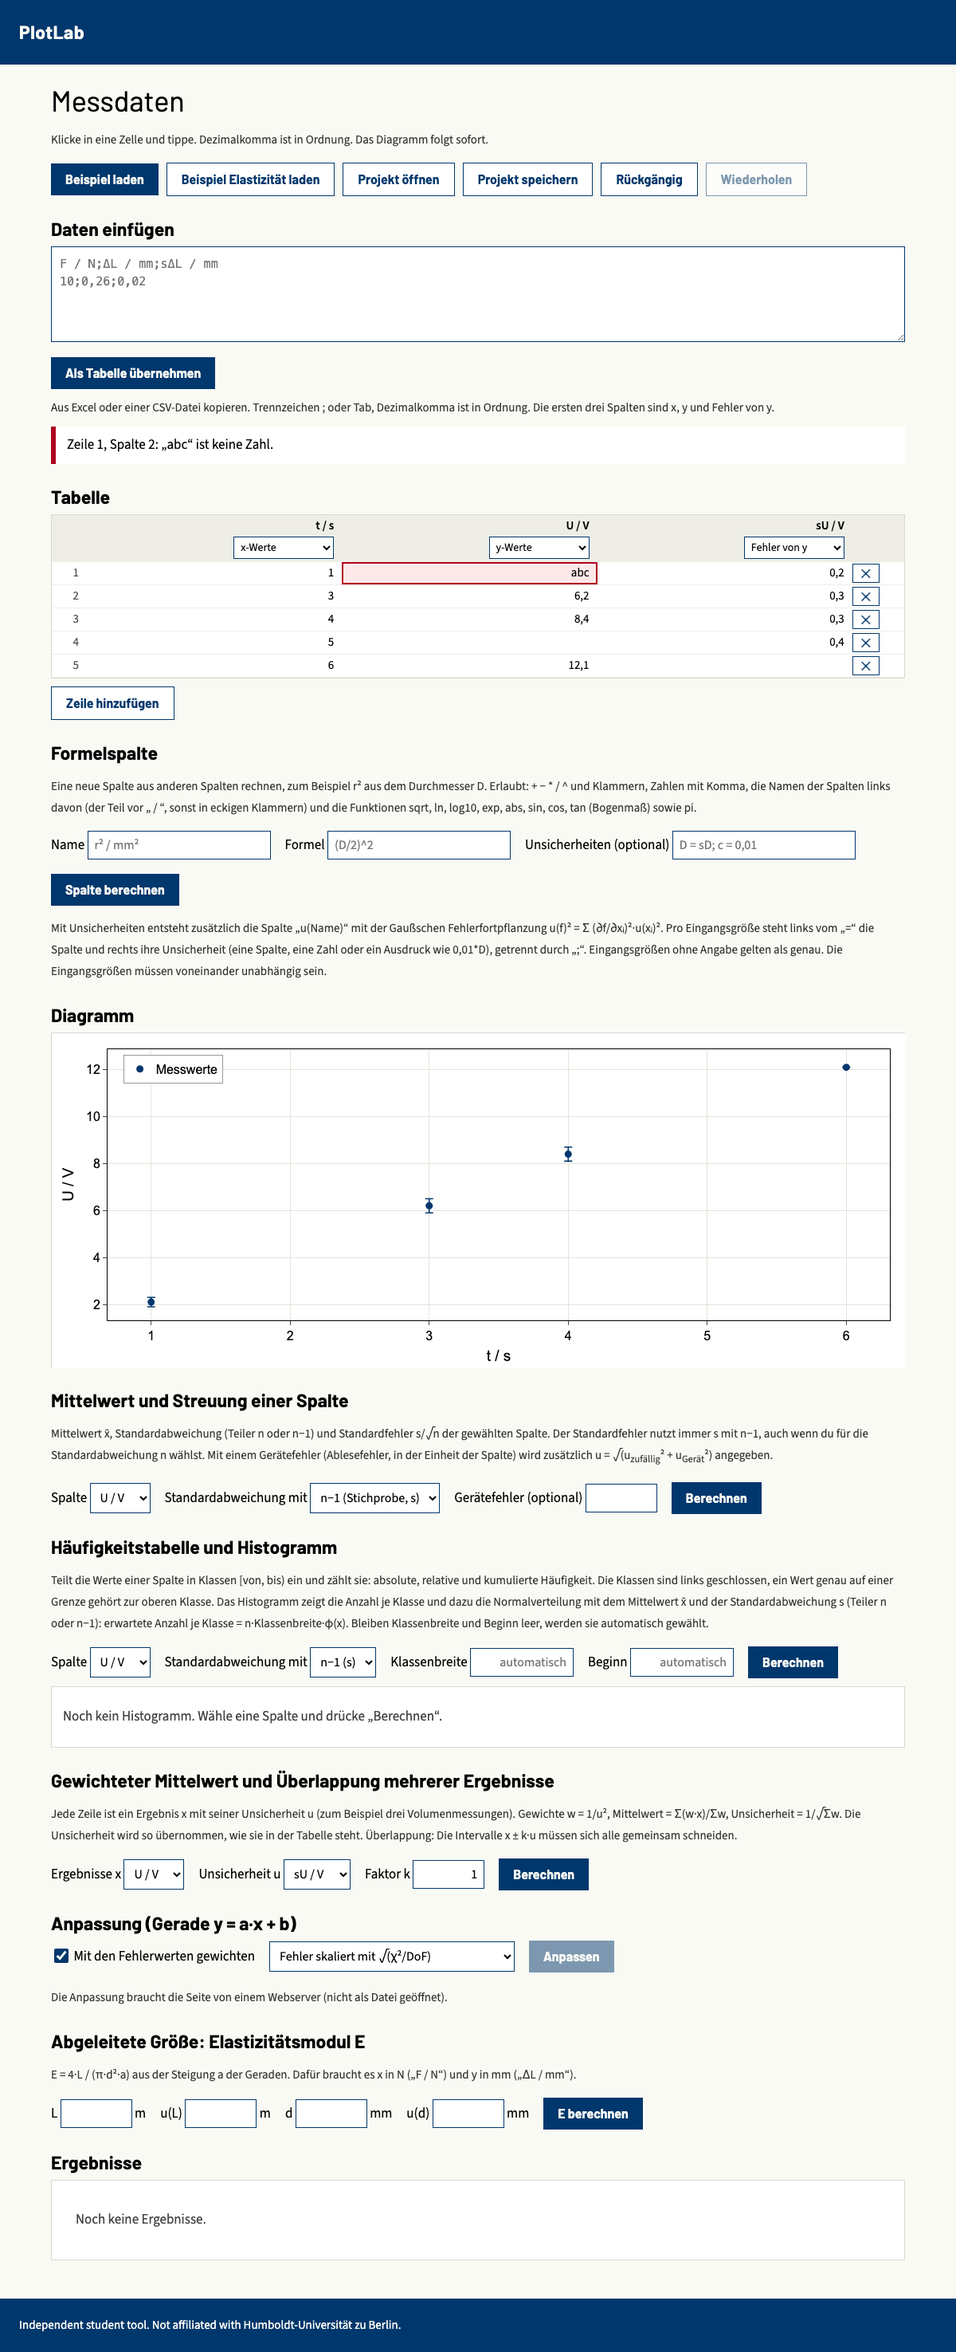
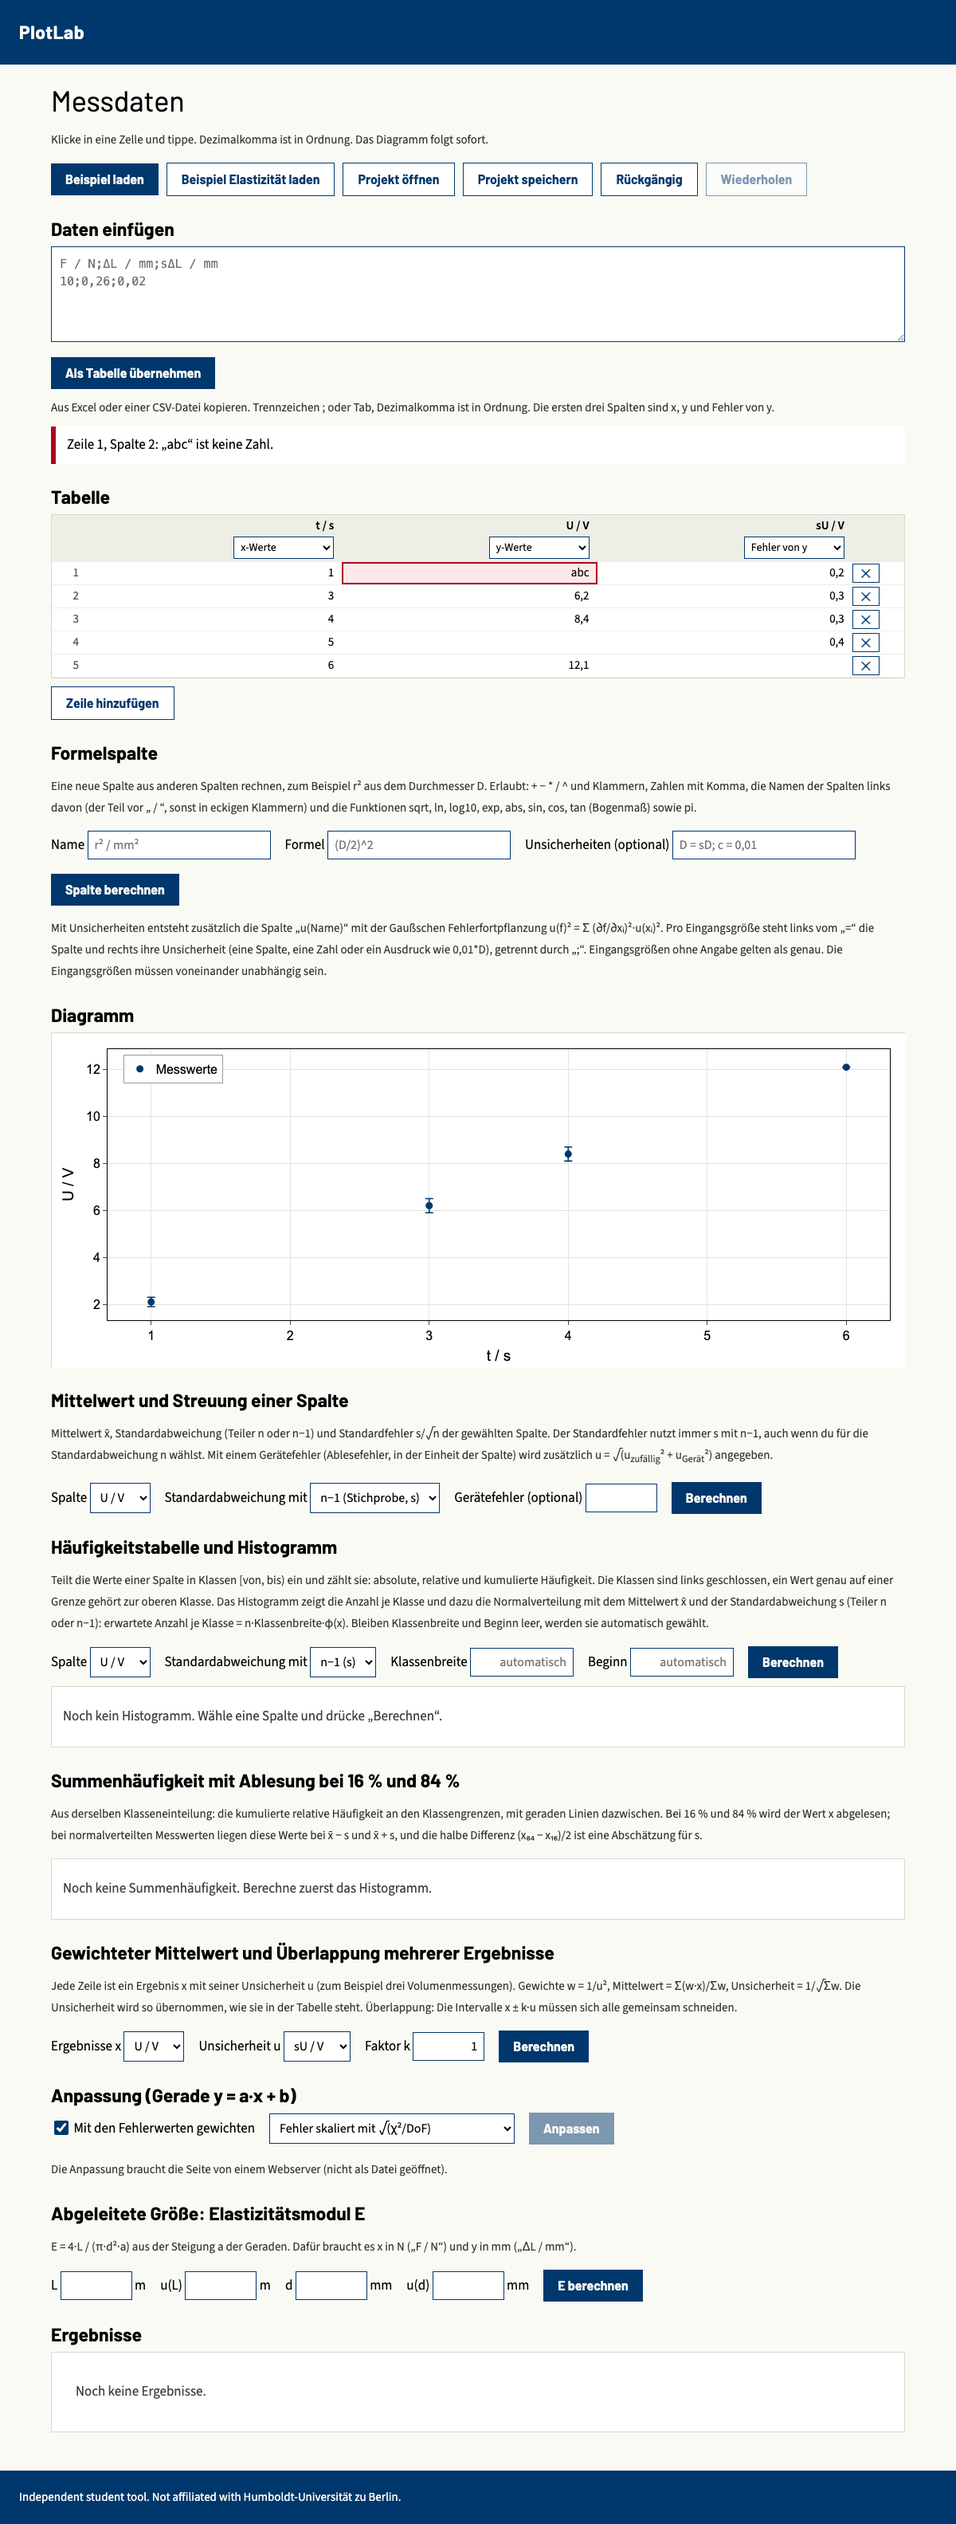
Phase 2 step 6: cumulative probability plot with 16 and 84 percent read-off

diff --git a/app/index.html b/app/index.html
@@ -54,7 +54,8 @@
   textarea { width:100%; height:120px; font:15px/22px ui-monospace, Menlo, Consolas, monospace; padding:10px; border:1px solid var(--blue); border-radius:0; background:#fff; resize:vertical; }
   #plot { background:#fff; border:1px solid var(--line); height:420px; }
   #histplot { background:#fff; border:1px solid var(--line); height:400px; }
-  #histplot:has(> .empty) { height:auto; }
+  #cumplot { background:#fff; border:1px solid var(--line); height:400px; }
+  #histplot:has(> .empty), #cumplot:has(> .empty) { height:auto; }
   #h_w, #h_s { width:130px; }
   #results { background:#fff; border:1px solid var(--line); padding:12px 16px; }
   .result.stale .res { opacity:.5; }
@@ -121,6 +122,9 @@
   </div>
   <div id="hmsg" class="msg" role="alert" hidden></div>
   <div id="histplot"><div class="empty">Noch kein Histogramm. Wähle eine Spalte und drücke „Berechnen“.</div></div>
+  <h2>Summenhäufigkeit mit Ablesung bei 16 % und 84 %</h2>
+  <p class="hint">Aus derselben Klasseneinteilung: die kumulierte relative Häufigkeit an den Klassengrenzen, mit geraden Linien dazwischen. Bei 16 % und 84 % wird der Wert x abgelesen; bei normalverteilten Messwerten liegen diese Werte bei x̄ − s und x̄ + s, und die halbe Differenz (x₈₄ − x₁₆)/2 ist eine Abschätzung für s.</p>
+  <div id="cumplot"><div class="empty">Noch keine Summenhäufigkeit. Berechne zuerst das Histogramm.</div></div>
   <h2>Gewichteter Mittelwert und Überlappung mehrerer Ergebnisse</h2>
   <p class="hint">Jede Zeile ist ein Ergebnis x mit seiner Unsicherheit u (zum Beispiel drei Volumenmessungen). Gewichte w = 1/u², Mittelwert = Σ(w·x)/Σw, Unsicherheit = 1/√Σw. Die Unsicherheit wird so übernommen, wie sie in der Tabelle steht. Überlappung: Die Intervalle x ± k·u müssen sich alle gemeinsam schneiden.</p>
   <div class="fitbar" id="wmean">
@@ -272,6 +276,7 @@ function derivedDetail(r) {
     `Beiträge: u(L)/L = ${rel[0]}, 2·u(d)/d = ${rel[1]}, u(a)/a = ${rel[2]}. Fehler von a: ${un ? "unskaliert" : "skaliert bzw. aus der Streuung"}.</div>`;
 }
 const fmtPlain = new Intl.NumberFormat("de-DE", { maximumSignificantDigits: 3 });
+const fmtRead = new Intl.NumberFormat("de-DE", { maximumSignificantDigits: 4 }); // values read off a table: 4 digits, no uncertainty attached
 function statsDetail(r) {
   const i = r.inputs || {}, n = fmt.format(Number(r.n));
   return `<div class="detail" data-how>Spalte „${esc(i.col)}“, n = ${n} Werte. Standardabweichung mit Teiler ${i.ddof === 0 ? "n" : "n−1"}. Mittelwert ± Standardfehler s/√n (s mit n−1).` +
@@ -292,7 +297,11 @@ function histDetail(r) {
   const rows = c.map((k, j) => { cum += k; return `<tr><td>${e(j)} bis unter ${e(j + 1)}</td><td>${fmt.format(k)}</td><td>${pct.format(k / n * 100)} %</td><td>${fmt.format(cum)}</td><td>${pct.format(cum / n * 100)} %</td></tr>`; }).join("");
   return `<table data-freq><thead><tr><th>Klasse${unit ? " / " + esc(unit) : ""}</th><th>absolut</th><th>relativ</th><th>kumuliert absolut</th><th>kumuliert relativ</th></tr></thead><tbody>${rows}</tbody></table>` +
     `<div class="detail" data-how>Spalte „${esc(i.col)}“, n = ${fmt.format(n)} Werte, ${fmt.format(c.length)} Klassen der Breite ${fmt.format(w)}${i.width == null ? " (automatisch)" : ""}, Beginn ${fmt.format(s0)}${i.start == null ? " (automatisch)" : ""}. ` +
-    `Normalverteilung mit x̄ und ${i.ddof === 0 ? "σ (Teiler n)" : "s (Teiler n−1)"}: erwartete Anzahl je Klasse = n·Klassenbreite·φ(x).</div>`;
+    `Normalverteilung mit x̄ und ${i.ddof === 0 ? "σ (Teiler n)" : "s (Teiler n−1)"}: erwartete Anzahl je Klasse = n·Klassenbreite·φ(x).</div>` +
+    (histOk(r) ? (() => {
+      const lo = cumRead(c, s0, w, 0.16), hi = cumRead(c, s0, w, 0.84), u = unit ? " " + esc(unit) : "", f = v => fmtRead.format(v) + u;
+      return `<div class="detail" data-readoff>Ablesung in der Summenhäufigkeit: x bei 16 % = ${f(lo)}, x bei 84 % = ${f(hi)}; halbe Differenz = ${f((hi - lo) / 2)}. Zum Vergleich: x̄ − s = ${f(Number(r.mean) - Number(r.s))}, x̄ + s = ${f(Number(r.mean) + Number(r.s))}.</div>`;
+    })() : "");
 }
 // The histogram is drawn from a fresh result only; an out-of-date one is removed like the fit line.
 function renderHist() {
@@ -311,8 +320,29 @@ function renderHist() {
     margin: { l: 70, r: 20, t: 20, b: 60 }, xaxis: ax(String((r.inputs || {}).col)), yaxis: ax("Anzahl der Messwerte"), paper_bgcolor: "#fff", plot_bgcolor: "#fff",
     showlegend: true, legend: { x: 0.02, y: 0.98, bgcolor: "#fff", bordercolor: "#999", borderwidth: 1 } }, { displaylogo: false, responsive: true });
 }
+// Cumulative share (%) at the class limits from the same fresh "hist" result; horizontal and vertical guides mark the read-off at 16 % and 84 %.
+function renderCum() {
+  const r = proj.results.find(q => q.kind === "hist");
+  if (!r || isStale(proj, r) || !histOk(r)) {
+    Plotly.purge("cumplot");
+    $("cumplot").innerHTML = `<div class="empty">${r && isStale(proj, r) ? "Die Summenhäufigkeit ist veraltet. Bitte das Histogramm neu berechnen." : "Noch keine Summenhäufigkeit. Berechne zuerst das Histogramm."}</div>`; return;
+  }
+  $("cumplot").querySelector(".empty")?.remove();
+  const c = r.counts, w = r.width, x0 = r.start, n = r.n; let cum = 0;
+  const xs = [x0, ...c.map((_, j) => x0 + (j + 1) * w)], ys = [0, ...c.map(k => (cum += k) / n * 100)];
+  const lv = [16, 84].map(p => ({ p, x: cumRead(c, x0, w, p / 100) }));
+  const line = { type: "scatter", mode: "lines+markers", x: xs, y: ys, name: "Kumulierte relative Häufigkeit", line: { color: "#00376C", width: 2.5 }, marker: { color: "#00376C", size: 7 } };
+  const marks = { type: "scatter", mode: "markers+text", x: lv.map(q => q.x), y: lv.map(q => q.p), name: "Ablesung bei 16 % und 84 %", marker: { color: "#D55E00", size: 11, symbol: "diamond" },
+    text: lv.map(q => fmtRead.format(q.x)), textposition: ["top left", "bottom right"], textfont: { size: 16, color: "#D55E00" } };
+  const guide = (x0_, y0, x1, y1) => ({ type: "line", x0: x0_, y0, x1, y1, line: { color: "#D55E00", width: 1.5, dash: "dash" } });
+  const ax = t => ({ title: { text: t, standoff: 10 }, showline: true, linecolor: "#000", mirror: true, ticks: "outside", gridcolor: "#e4e4dc", zeroline: false, exponentformat: "none" });
+  Plotly.react("cumplot", [line, marks], { font: { family: "Arial, Helvetica, sans-serif", size: 16, color: "#000" }, separators: ",.",
+    margin: { l: 70, r: 20, t: 20, b: 60 }, xaxis: ax(String((r.inputs || {}).col)), yaxis: { ...ax("Kumulierte Häufigkeit / %"), range: [0, 100] }, paper_bgcolor: "#fff", plot_bgcolor: "#fff",
+    shapes: lv.flatMap(q => [guide(x0, q.p, q.x, q.p), guide(q.x, q.p, q.x, 0)]),
+    showlegend: true, legend: { x: 0.02, y: 0.98, bgcolor: "#fff", bordercolor: "#999", borderwidth: 1 } }, { displaylogo: false, responsive: true });
+}
 function renderResults() {
-  renderHist();
+  renderHist(); renderCum();
   if (!proj.results.length) { $("results").innerHTML = '<div class="empty">Noch keine Ergebnisse.</div>'; return; }
   $("results").innerHTML = proj.results.map(r => {
     const stale = isStale(proj, r);

diff --git a/app/stats.js b/app/stats.js
@@ -33,4 +33,15 @@ function autoBins(values) {
 }
 // Expected number of readings per class of width w at x for a normal distribution fitted to n readings (mean, s): n·w·φ((x-mean)/s)/s.
 const normalCount = (x, mean, s, n, w) => n * w * Math.exp(-((x - mean) ** 2) / (2 * s * s)) / (s * Math.sqrt(2 * Math.PI));
-if (typeof module !== "undefined") module.exports = { describe, weightedMean, histogram, autoBins, normalCount };
+// Read-off in the cumulative table (P1): the x where the cumulative share reaches p (0..1), a straight line between the class limits.
+// p = 0,16 and 0,84 mark x̄ − s and x̄ + s for normally distributed readings (68 % lie within ±s).
+function cumRead(counts, start, width, p) {
+  const n = counts.reduce((a, v) => a + v, 0);
+  let before = 0;
+  for (let j = 0; j < counts.length; j++) {
+    if ((before + counts[j]) / n >= p) return start + width * (j + (p * n - before) / counts[j]);
+    before += counts[j];
+  }
+  return start + width * counts.length;
+}
+if (typeof module !== "undefined") module.exports = { describe, weightedMean, histogram, autoBins, normalCount, cumRead };

diff --git a/tests/reference/histogram.py b/tests/reference/histogram.py
@@ -15,3 +15,12 @@ print("mean", float(mean), "s(n-1)", sqrt(ss / (n - 1)), "sigma(n)", sqrt(ss / n
 for name, s in (("n-1", sqrt(ss / (n - 1))), ("n", sqrt(ss / n))):
     f = lambda x: float(n * w) * exp(-(x - float(mean)) ** 2 / (2 * s * s)) / (s * sqrt(2 * pi))
     print("curve", name, "at mean", f(float(mean)), "at 9.5", f(9.5), "at 10.0", f(10.0), "at 10.7", f(10.7))
+# Cumulative table read-off (step 6): x where the cumulative relative frequency crosses p, straight line between the class limits.
+def readoff(p):
+    for j in range(6):
+        if F(cum[j], n) >= p:
+            prev = cum[j - 1] if j else 0
+            return start + w * j + w * (p * n - prev) / counts[j]
+for p in (F(16, 100), F(84, 100)):
+    print("read-off", float(p), readoff(p), float(readoff(p)))
+print("mean -/+ s", float(mean) - sqrt(ss / (n - 1)), float(mean) + sqrt(ss / (n - 1)))

diff --git a/docs/progress.md b/docs/progress.md
@@ -12,7 +12,7 @@ Phase 1 is finished (see `docs/phase1-report.md`). Phase 2 **assumes P1 to P9** 
 - [x] 3. Mean, standard deviation (n or n−1, chosen by the student), standard error, and random plus instrument error combined in quadrature (P2 volume measurement, P1). Test: a 10-value sample against hand values for both choices of n; result lines in HU format.
 - [x] 4. Weighted mean with uncertainty and an overlap check of several results (P2). Test: three volume results with different uncertainties against hand values (w = 1/u², mean, 1/√Σw); the overlap verdict (within k·u) matches the hand check.
 - [x] 5. Frequency table (absolute, relative, cumulative) and histogram with the fitted normal curve (P1). Test: 30 hand-made readings, bin counts and normal-curve height against hand values; axis labels carry quantity and unit.
-- [ ] 6. Cumulative probability plot with the 16 % and 84 % read-off (P1). Test: values read off the hand-made cumulative table; the plot marks both levels.
+- [x] 6. Cumulative probability plot with the 16 % and 84 % read-off (P1). Test: values read off the hand-made cumulative table; the plot marks both levels.
 - [ ] 7. General derived quantity from fit parameters (P3, P4, P5, P9): a formula over a, b, u(a), u(b) with propagation; the E of step 6 of Phase 1 becomes the first template of it. Test: the P3 numbers of `tests/phase1-step6-elasticity.mjs` are reproduced exactly (E = (201 ± 8) GPa), plus one new case (g from the slope of T² against l, P9) by hand.
 - [ ] 8. Fit a chosen x range and several y series in one plot (P3 loading and unloading). Test: two series fitted separately against hand values; both lines drawn and named in the legend; the two slopes compared in units of their combined uncertainty.
 - [ ] 9. Calibration line with an unknown read off, with uncertainty (P4, P7): the line fit also returns the covariance of a and b; x0 = (y0 − b)/a with propagated uncertainty. Test: a 6-point calibration and one measured y0 against a hand calculation including the covariance term.
@@ -80,3 +80,4 @@ Phase 1 is finished (see `docs/phase1-report.md`). Phase 2 **assumes P1 to P9** 
 - 2026-10-14, Phase 2 step 3: A student can now pick a column under "Mittelwert und Streuung einer Spalte", choose the divisor n or n−1 for the standard deviation, optionally enter an instrument (reading) error, press "Berechnen" and read: Mittelwert x̄ = (value ± standard error) unit in HU format, the standard deviation s or σ, the standard error s/√n, and with an instrument error a second mean line with random and instrument error added in quadrature. The standard error always uses s with n−1 (stated on the page). Settings are in the project (undo, autosave, save/open work); changing the column, divisor, instrument error or any value of that column greys the result out as out of date ("Bitte neu berechnen"). Tested (`tests/phase2-step3-stats.sh`) with ten burette readings against hand values (exact fractions): mean 10,11 mL, s(n−1) = 0,0258199, σ(n) = 0,0244949, standard error 0,00816497, with 0,02 mL instrument error 0,0216025; on screen (10,110 ± 0,008) mL and (10,110 ± 0,022) mL, s = 0,0258 or σ = 0,0245 mL. Bad input (a column with one value, negative or non-numeric instrument error) gives clear German messages and no result; a hand-edited project with script text in the stats fields runs nothing. All 18 checks in `scripts/check.sh` pass. Screenshots `evidence/phase2-step3-stats.png`, `-error.png` judged OK. New code: `app/stats.js` (pure math); `app/project.js` got `statsSettings` and a stale rule for statistics. Limits: one statistics result at a time; s and the standard error are shown as plain numbers with 3 significant digits (they have no uncertainty of their own).
 - 2026-10-14, Phase 2 step 4: A student can now pick a results column and an uncertainty column (default: the y and y-error columns), set the factor k (default 1) and press "Berechnen" under "Gewichteter Mittelwert und Überlappung mehrerer Ergebnisse". The page shows the weighted mean in HU format with weights 1/u² and u = 1/√Σw, and says whether the intervals x ± k·u share a common range or names the rows that do not overlap, with the gap. Rows with an empty cell are skipped. Settings are in the project (undo, autosave, save/open); changing a column, k or a value greys the result out. Tested (`tests/phase2-step4-wmean.sh`) with three volume results 10,3 ± 0,2; 10,5 ± 0,3; 9,9 ± 0,1 cm³ against a separate hand calculation in exact fractions (`tests/reference/weighted_mean.py`): Σw = 136,111, mean 10,022449, u = 0,0857143 (3/35); on screen (10,02 ± 0,09) cm³; k = 1: rows 1/3 (gap 0,1) and 2/3 (gap 0,2) do not overlap; k = 2: all overlap. Equal-uncertainty case gives the plain mean and u0/√n. Bad input (u = 0 with the row named, no uncertainty column, same column twice, k = 0 or text, one usable row) gives clear German messages and no result; a hand-edited project with script text in the new fields runs nothing. All 19 checks in `scripts/check.sh` pass. Screenshots `evidence/phase2-step4-wmean.png`, `-error.png` judged OK. Limits: the uncertainty 1/√Σw is not scaled by χ²/DoF (stated on the page); no separate χ² consistency number; one weighted-mean result at a time. New code: `weightedMean` in `app/stats.js`; `wmeanSettings` in `app/project.js`.
 - 2026-10-14, Phase 2 step 5: A student can now pick a column under "Häufigkeitstabelle und Histogramm", optionally type a class width and a start (empty = automatic, and the page says what it used), choose n or n−1 for s and press "Berechnen". They get a table of classes (von bis unter) with absolute, relative and cumulative (absolute and relative) frequency, the mean as (10,05 ± 0,05) mm and s, and a histogram of the counts with the fitted normal curve, axis labels "l / mm" and "Anzahl der Messwerte", and a legend. Classes are closed on the left, so a reading on a limit counts in the upper class. Tested (`tests/phase2-step5-histogram.sh`) with 30 hand-made length readings against a separate hand calculation in exact fractions (`tests/reference/histogram.py`): counts 2 5 9 8 4 2, relative 6,7 16,7 30,0 26,7 13,3 6,7 %, cumulative 2 7 16 24 28 30, mean 10,05, s(n−1) = 0,263269, σ(n) = 0,258844; every plotted point of the curve matches n·w·φ(x) (9,0921 at the mean with n−1, 9,0766 at 10,0 with n); automatic classes (width 0,2 from 9,4) give 1 3 6 9 7 3 1 counted by hand. The test has teeth: without the rounding guard for readings exactly on a class limit (9,7 and 10,1 are 0,9999... and 2,9999... in floating point) the counts come out wrong (4 3 12 5 4 2). Edit, divisor change, undo, reload and save/open behave (a stale result removes the plot, like the fit line). Bad input (width 0 or text, start above the minimum, more than 100 classes, one value, all values equal) gives a clear German message and no result; a hand-edited project with script text everywhere runs nothing. All 20 checks in `scripts/check.sh` pass. Screenshots `evidence/phase2-step5-hist.png`, `-hist-plot.png`, `-error.png` judged OK (found and fixed: the "automatisch" placeholder was cut off in the narrow field, and the empty plot box was too tall). New code: `histogram`, `autoBins`, `normalCount` in `app/stats.js`; `histSettings` and a `KEYS` table for result freshness in `app/project.js`. Limits: one histogram result at a time; the cumulative plot with the 16 % and 84 % read-off is step 6; PNG/SVG export of this plot comes in step 14.
+- 2026-10-14, Phase 2 step 6: Under the histogram there is now a plot "Summenhäufigkeit mit Ablesung bei 16 % und 84 %", drawn from the same classes: the cumulative share at each class limit joined by straight lines, with dashed guides and orange markers at 16 % and 84 % and the read-off x values written next to them. The result also gets a line "Ablesung in der Summenhäufigkeit" with x(16 %), x(84 %), their half difference and, for comparison, x̄ − s and x̄ + s. Tested (`tests/phase2-step6-cumulative.sh`) with the 30 length readings of step 5 against exact fractions (`tests/reference/histogram.py`): cumulative 0 6,7 23,3 53,3 80,0 93,3 100 %; x(16 %) = 9,812 mm (2453/250), x(84 %) = 10,36 mm (259/25), half difference 0,274 mm, x̄ ∓ s = 9,787 and 10,31 mm; automatic classes 9,8267 and 10,2886 by hand; guides end exactly on the marked points; axis titles "l / mm" and "Kumulierte Häufigkeit / %"; the plot disappears when data changes ("veraltet") and comes back when the edit is reverted; reload keeps it; bad input (all values equal) leaves no plot; a hand-edited project with script text runs nothing. All 21 checks in `scripts/check.sh` pass. Screenshots `evidence/phase2-step6-cumulative.png`, `-plot.png`, `-error.png` judged OK. Limits: the read-off assumes the straight-line interpolation between class limits (stated on the page), so it depends on the class width; the levels 16 % and 84 % are fixed; the readings carry no uncertainty (shown with 4 digits, not in HU format); PNG/SVG export comes in step 14. New code: `cumRead` in `app/stats.js`.

diff --git a/CHANGELOG.md b/CHANGELOG.md
@@ -2,6 +2,12 @@
 
 Written in plain language for people who do not read code. Newest entry on top.
 
+## 2026-10-14: Cumulative plot with 16 % and 84 % read-off (P1)
+
+- **What a student can now do:** after "Berechnen" in the histogram section, a second plot "Summenhäufigkeit mit Ablesung bei 16 % und 84 %" shows the cumulative share at each class limit with dashed guides to the x axis. The two read-off values are marked and written on the plot, for example 9,812 mm and 10,36 mm. The result list adds a line with both values, their half difference and, for comparison, x̄ − s and x̄ + s.
+- **Good to know:** the values are read by a straight line between the class limits, so they depend on the class width. The plot is removed when the data changes, like the histogram.
+- **Tested:** `tests/phase2-step6-cumulative.sh` with the 30 readings of the histogram test against hand values in exact fractions (16 %: 9,812; 84 %: 10,36), including automatic classes, undo of an edit, reload, bad input and a hand-edited project file.
+
 ## 2026-10-14: Frequency table and histogram with normal curve (P1)
 
 - **What a student can now do:** under "Häufigkeitstabelle und Histogramm" pick a column (for example 30 length readings) and press "Berechnen". The page shows a table with each class (von bis unter), the absolute, relative and cumulative frequency, and a histogram of the counts with the fitted normal curve (mean x̄ and s with n−1, or σ with n, as chosen) and a legend. The mean is given as (value ± u) unit, for example (10,05 ± 0,05) mm.
